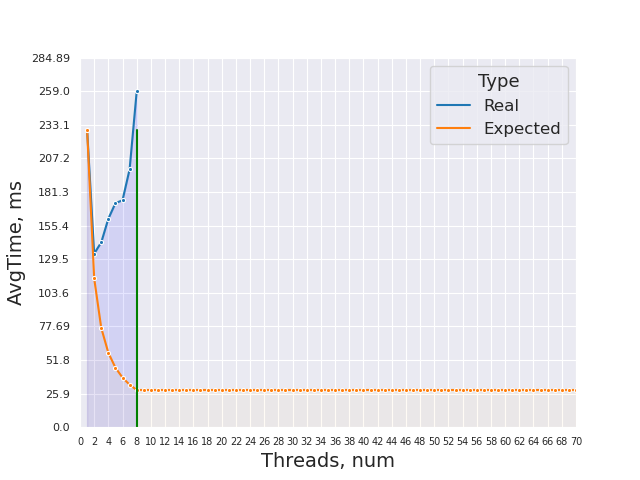
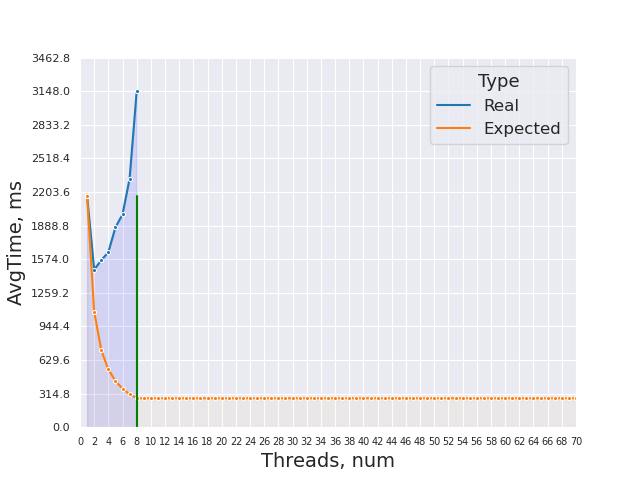
nevermind

diff --git a/lab3/graphs/timing.py b/lab3/graphs/timing.py
@@ -1,2 +1,2 @@
-t_succ = 0.802002
-ts = [(1, 0.229418), (2, 0.133812), (3, 0.142487), (4, 0.160712), (5, 0.172697), (6, 0.174948), (7, 0.198783), (8, 0.258777), ]
+t_succ = 0.773194
+ts = [(1, 2.16627), (2, 1.47622), (3, 1.56447), (4, 1.64001), (5, 1.87239), (6, 1.99385), (7, 2.32842), (8, 3.14752), ]
